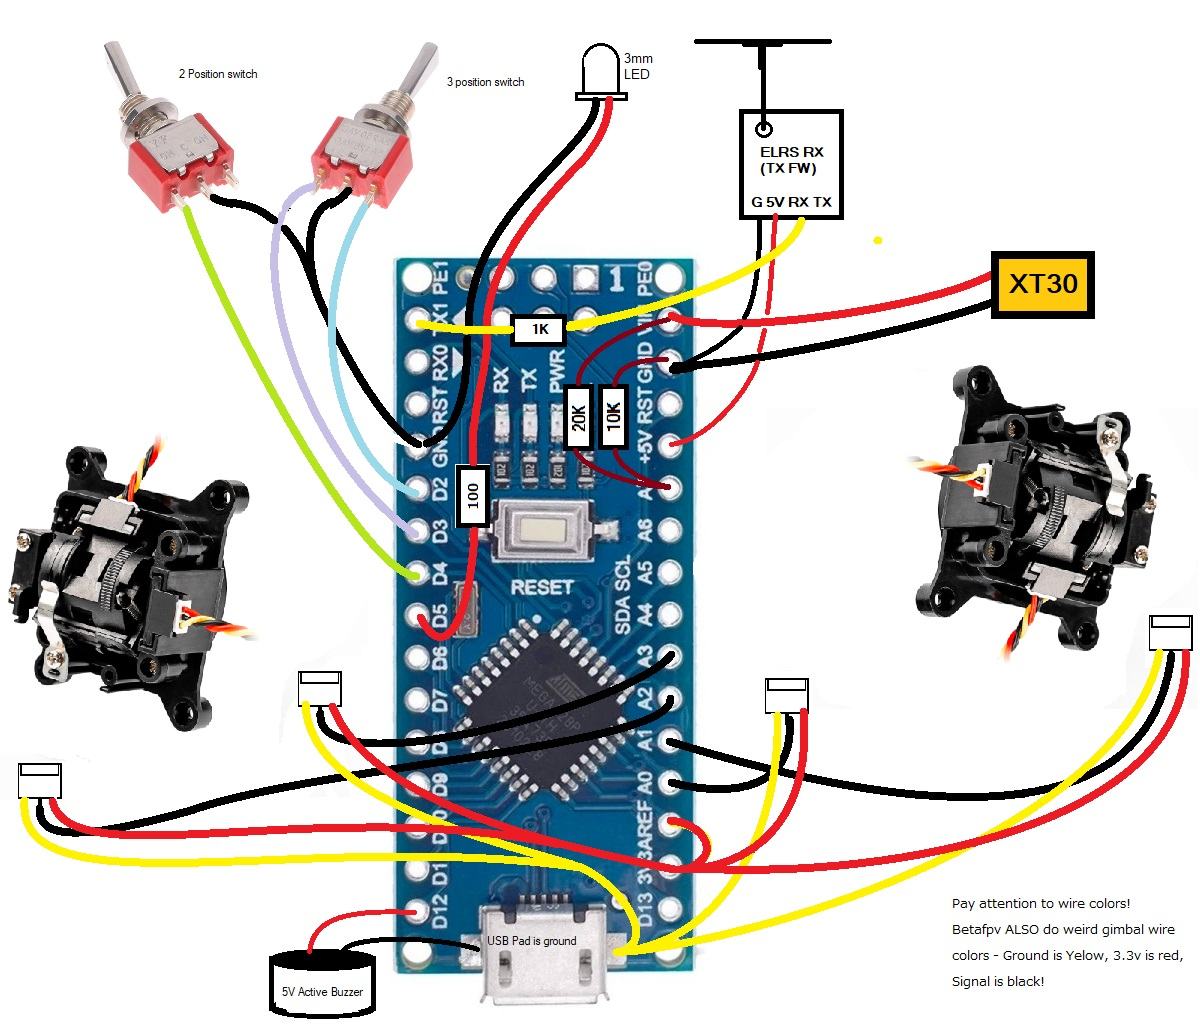
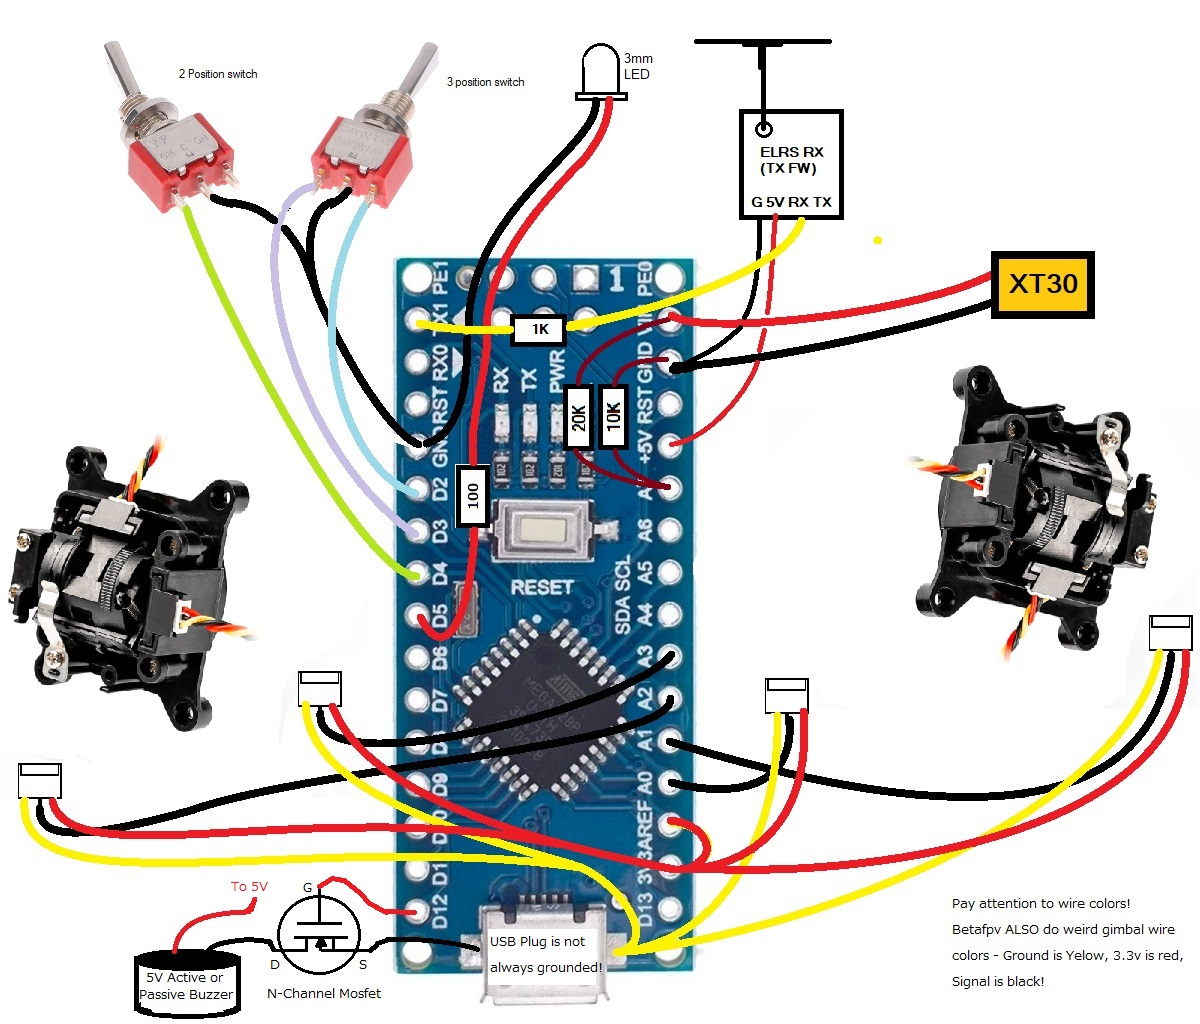
Add support for passive buzzer
Passive buzzer support - for both passive and active buzzer I highly recommend using a transistor or FET driver (as shown in the updated wiring diagrams) This means an extra wire is necessary from the 5v pad.
For an N channel Mosfet. Source is Ground, Drain is the negative terminal of the buzzer and Gate is the buzzer pin D12. For an NPN BJT Transistor, Emitter is ground, Collector is the negative terminal of the buzzer and Base is the buzzer pin D12.

Changed region(s): [[0.0925, 0.8438, 0.3392, 1.0], [0.4008, 0.9062, 0.4933, 0.9688]]

diff --git a/SimpleTX/tone.h b/SimpleTX/tone.h
@@ -14,37 +14,60 @@
  * You should have received a copy of the GNU General Public License
  * along with Cleanflight.  If not, see <http://www.gnu.org/licenses/>.
  */
-
-
-//#define BUZZERFREQ 1000
-
 //----- global variables for tones generation --------------
-uint8_t playSound = 0;
-
-bool curDurIndex = 1;
-
-
 unsigned long previousToneMillis = 0;
+bool started=false;
 
 // ----------------------------------------------------------------------------
 void playingTones(uint8_t timeSeconde) {
     unsigned long currentMillis = millis();
-
-        if (currentMillis - previousToneMillis <= timeSeconde*100) {
-
-            playSound ^= 1;    
-            analogWrite(DIGITAL_PIN_BUZZER, 128);
-        }else if(currentMillis - previousToneMillis > timeSeconde*100 && currentMillis - previousToneMillis <= timeSeconde*200){
-            analogWrite(DIGITAL_PIN_BUZZER, 0);
-        }else if(currentMillis - previousToneMillis > timeSeconde*200 && currentMillis - previousToneMillis <= timeSeconde*300){
-            analogWrite(DIGITAL_PIN_BUZZER, 128);
-        }else if(currentMillis - previousToneMillis > timeSeconde*300 && currentMillis - previousToneMillis <= 5000){
-            analogWrite(DIGITAL_PIN_BUZZER, 0);
-        }else{
-            previousToneMillis = currentMillis;     // save the last time buzzer play tone
-            analogWrite(DIGITAL_PIN_BUZZER, 0);
+#ifdef PASSIVE_BUZZER
+    if ( !rtttl::isPlaying()) {
+      if ( !started ) {  // 
+        if (timeSeconde == 2) { // Low Battery
+          // The following two tones mimick the old Nokia 3310 battery warning
+          if (currentMillis - previousToneMillis <= 100) {
+              tone(DIGITAL_PIN_BUZZER,1568,100);
+          }else if(currentMillis - previousToneMillis > 100 && currentMillis - previousToneMillis <= 300){
+              tone(DIGITAL_PIN_BUZZER,784,100);
+          }else if(currentMillis - previousToneMillis > 300 && currentMillis - previousToneMillis <= 5000){
+              noTone(DIGITAL_PIN_BUZZER);
+          }else{
+              previousToneMillis = currentMillis;     // save the last time buzzer play tone
+              noTone(DIGITAL_PIN_BUZZER);
+          }
+          // Tones did not work for the low battery warning
+          // const char * LOW_BATT_WARNING = "nokia:d=4,o=5,b=140:16g6,8g,16p,16g6,8g,16p,16g6,8g";
+          // rtttl::begin(DIGITAL_PIN_BUZZER, LOW_BATT_WARNING);
+        } 
+        else if (timeSeconde == 5) { // Stick move timeout
+          rtttl::begin(DIGITAL_PIN_BUZZER, STICK_MOVE_WARNING);
+          started = true;
+          previousToneMillis = currentMillis;     // save the last time buzzer play tone
         }
-    
+      }
+      else {
+        if (currentMillis - previousToneMillis > 5000) {
+          started = false;
+        }
+      }
+    }
+
+#else 
+    //ACTIVE_BUZZER
+    if (currentMillis - previousToneMillis <= timeSeconde*100) {
+        analogWrite(DIGITAL_PIN_BUZZER, 128);
+    }else if(currentMillis - previousToneMillis > timeSeconde*100 && currentMillis - previousToneMillis <= timeSeconde*200){
+        analogWrite(DIGITAL_PIN_BUZZER, 0);
+    }else if(currentMillis - previousToneMillis > timeSeconde*200 && currentMillis - previousToneMillis <= timeSeconde*300){
+        analogWrite(DIGITAL_PIN_BUZZER, 128);
+    }else if(currentMillis - previousToneMillis > timeSeconde*300 && currentMillis - previousToneMillis <= 5000){
+        analogWrite(DIGITAL_PIN_BUZZER, 0);
+    }else{
+        previousToneMillis = currentMillis;     // save the last time buzzer play tone
+        analogWrite(DIGITAL_PIN_BUZZER, 0);
+    }
+ #endif   
     
 }
 

diff --git a/SimpleTX/config.h b/SimpleTX/config.h
@@ -47,7 +47,7 @@ int Rudder_OFFSET     = 2;
 #endif
 
 // Define Reverse 1=reverse
-int Is_Aileron_Reverse  =0;
+int Is_Aileron_Reverse  =1;
 int Is_Elevator_Reverse =0;
 int Is_Throttle_Reverse =0;
 int Is_Rudder_Reverse   =0;
@@ -67,13 +67,23 @@ const int DIGITAL_PIN_SWITCH_AUX3 = 2;  //
 // const int DIGITAL_PIN_SWITCH_AUX4 = 5;  //
 
 // pins that used for output
-const int DIGITAL_PIN_LED = 5;    // in pcb v0.9 led is reused from AUX4 (remember to add 300om resistor in led)
-//const int DIGITAL_PIN_BUZZER = 7; // do not use in pcb v0.9
+const int DIGITAL_PIN_LED = 5;  
 
 // pins that used for buzzer
+//#define ACTIVE_BUZZER
+#define PASSIVE_BUZZER
 const int DIGITAL_PIN_BUZZER = 12;
+
+// If using a passive buzzer, you can enjoy an RTTTL melody on startup (set to "" to disable)
+// if using other melodies from bluejay etc. note that the first three parameters need to be in this order:
+// d=,o=,b= (bluejay melodies are often in different order)
+#ifdef PASSIVE_BUZZER
+const char * STARTUP_MELODY = "Melody:d=32,o=4,b=570:4b,p,4e5,p,4b,p,4f#5,2p,4e5,2b5,8b5,1p,8e4,2p,8f#5";
+const char * STICK_MOVE_WARNING ="tetris:d=4,o=5,b=160:e6,8b,8c6,8d6,16e6,16d6,8c6,8b,a,8a,8c6,e6,8d6,8c6,b,8b,8c6,d6,e6,c6,a,2a,8p,d6,8f6,a6,8g6,8f6,e6,8e6,8c6,e6,8d6,8c6,b,8b,8c6,d6,e6,c6,a,a";
+#endif
 //----- Voltage monitoring -------------------------
 // Define battery warning voltage
+const float VOLTAGE_SCALE = 111.0;
 const float WARNING_VOLTAGE = 7.4; // 2S Lipo 3.7v per cell
 const float BEEPING_VOLTAGE = 7.0; // 2S Lipo 3.5v per cell
 const float ON_USB = 5.2;          // On USB power / no battery
